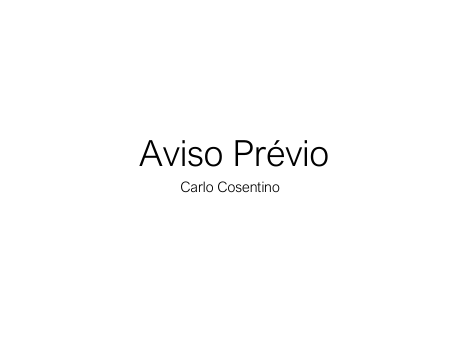
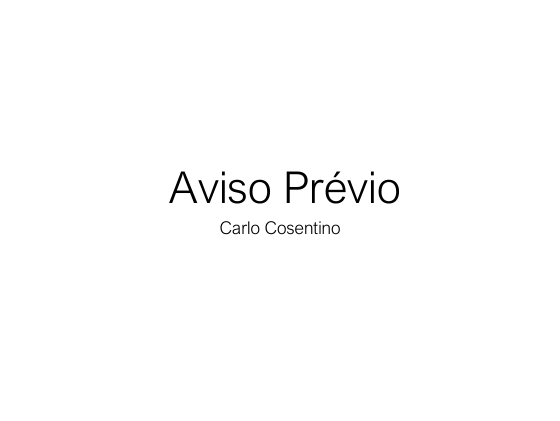
Material Didático: mostra o slide/página inteiros (sem recorte)
Remove o object-fit:cover (16:9) que recortava os slides 4:3 mostrando
só metade. Regenera as miniaturas de slide em tamanho natural e exibe
slides e textos por inteiro, com altura natural, na coluna alinhada de
150px. Textos seguem com a 1ª página aparada das margens brancas.

Claude-Session: https://claude.ai/code/session_01WmtDoVKG2caHhFEj4CfbJi

Changed region(s): [[0.5174, 0.4046, 0.7304, 0.4913], [0.3043, 0.4046, 0.487, 0.4913], [0.3957, 0.5202, 0.6087, 0.578]]

diff --git a/content/materiais/_index.md b/content/materiais/_index.md
@@ -20,8 +20,6 @@ sections:
         .mat-thumb{flex:0 0 150px;width:150px;padding:0;margin:0;border:1px solid #2c3340;border-radius:8px;overflow:hidden;background:#fff;cursor:pointer;line-height:0;transition:border-color .2s,transform .15s}
         .mat-thumb:hover{border-color:#9db4cc;transform:translateY(-1px)}
         .mat-thumb img{display:block;width:100%;height:auto}
-        .mat-thumb--slide{aspect-ratio:16/9}
-        .mat-thumb--slide img{height:100%;object-fit:cover;object-position:center}
         .mat-body{flex:1 1 auto;min-width:0}
         .mat-title{font-size:.98rem;font-weight:600;color:#e8e8ea;margin:0 0 .25rem}
         .mat-desc{font-size:.86rem;line-height:1.5;color:#9aa3b0;margin:0;text-align:justify}
